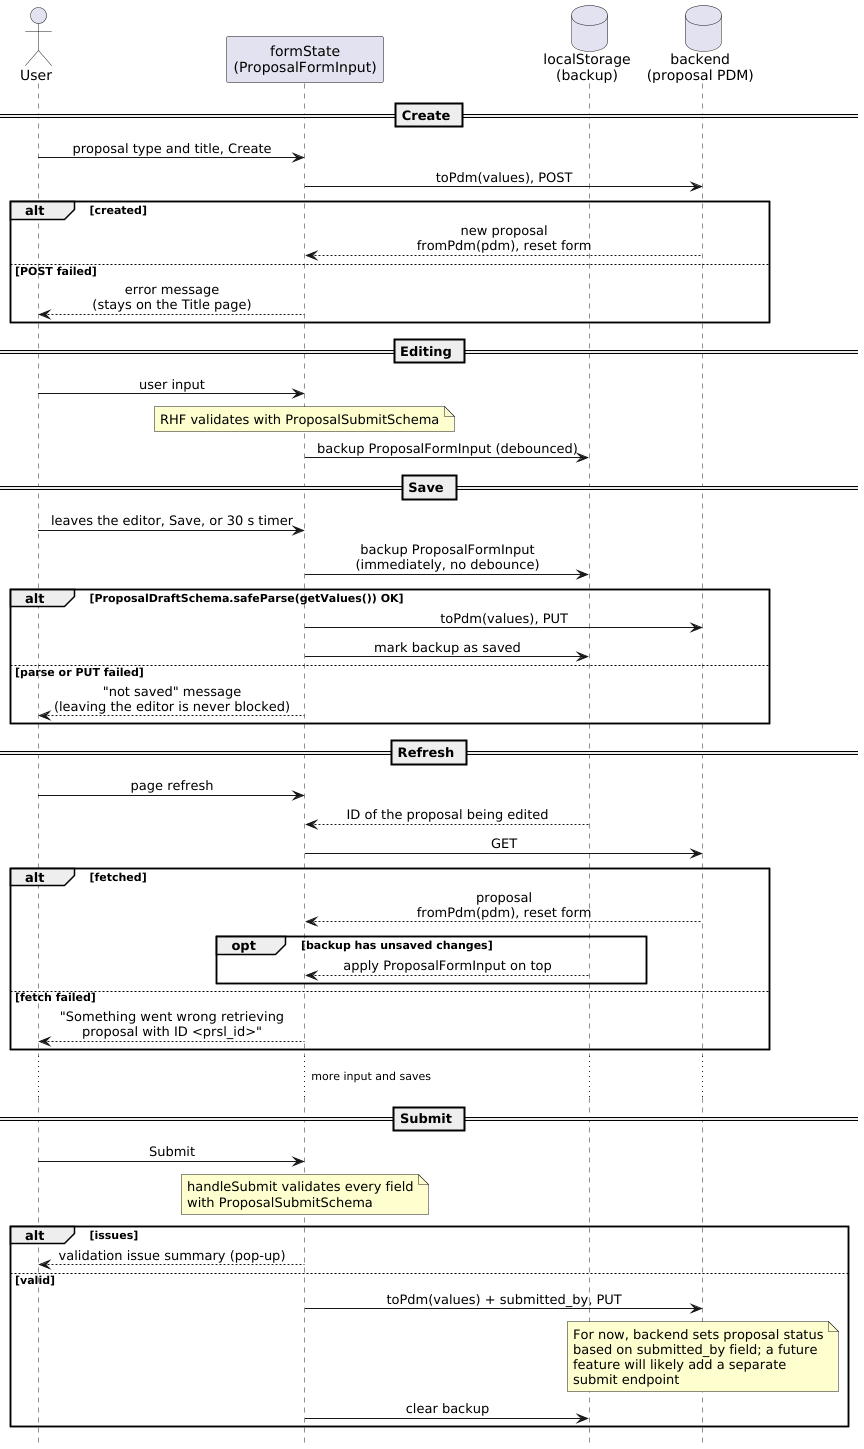
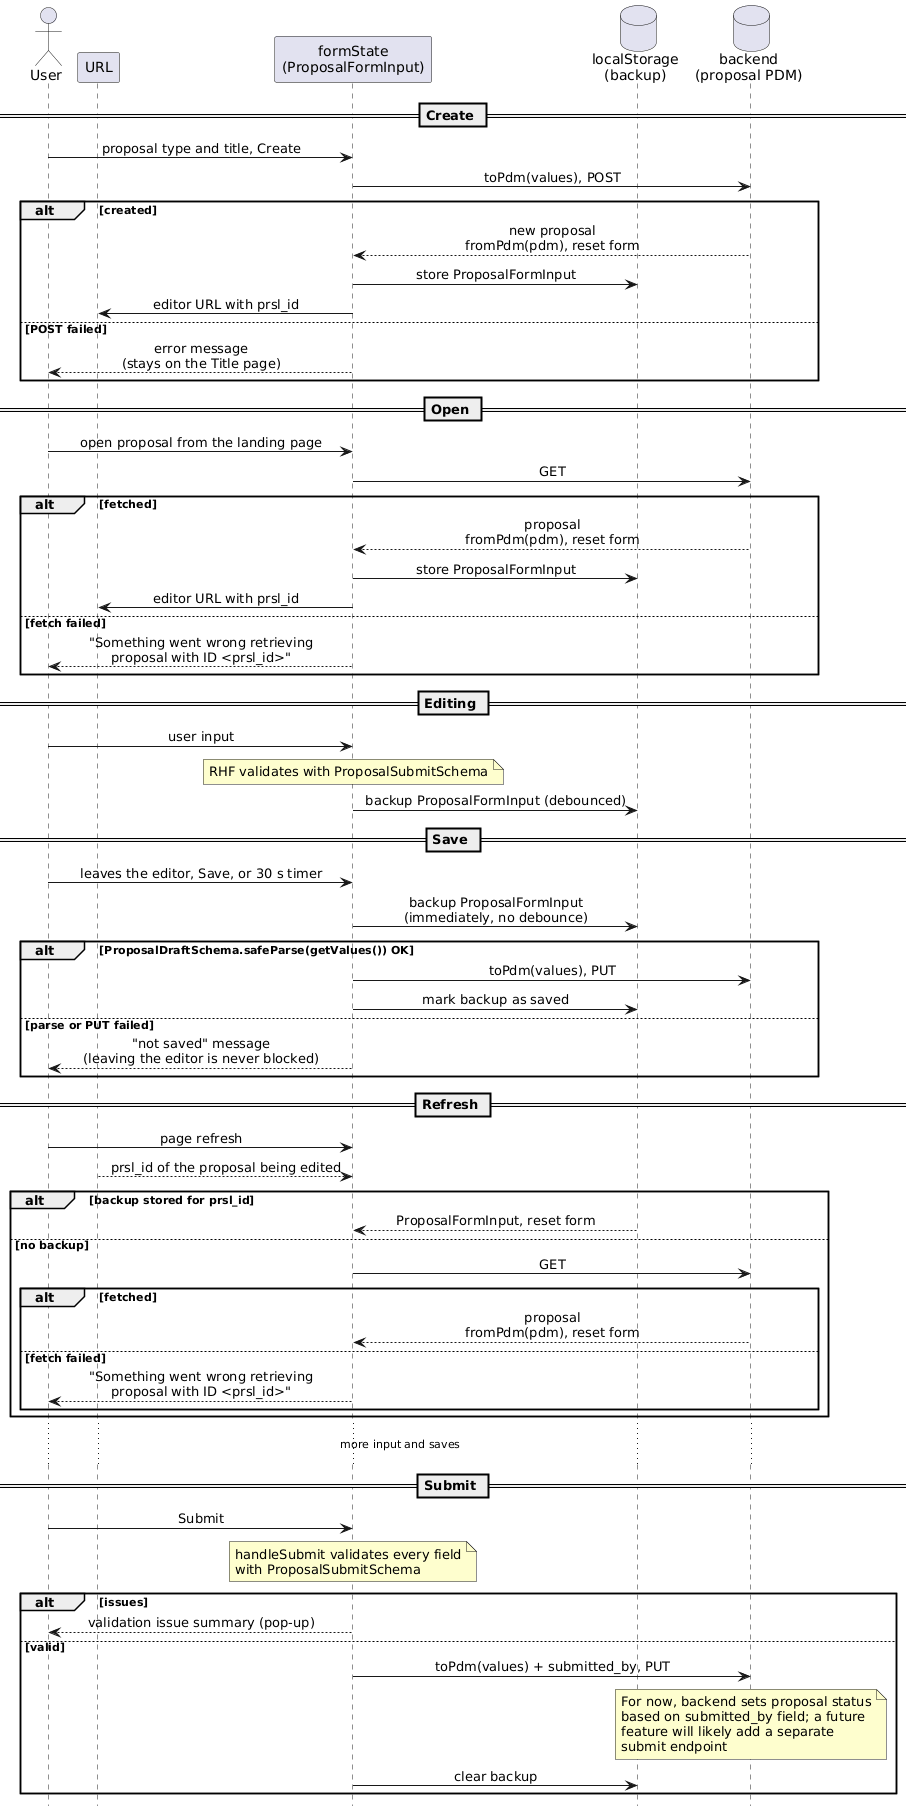
BTN-3598 tidy up diagram and comments

Changed region(s): [[0.0, 0.0, 1.0, 0.9938], [0.8125, 0.3106, 0.8438, 0.3416]]

diff --git a/src/pages/PHT/PHT.test.tsx b/src/pages/PHT/PHT.test.tsx
@@ -16,7 +16,6 @@ const mockNavigate = vi.fn();
 const mockSetHelp = vi.fn();
 const mockPathname = { current: PATH[0] };
 const mockLocationState: { current: unknown } = { current: null };
-// The form values of the proposal open when PHT mounts, over the defaults of a new proposal
 const mockOpenProposal: { current: Partial<ProposalType> } = { current: { prslId: 'prp-123' } };
 const mockApplicationContent5 = { current: { message: '', level: '', delay: 0 } as any };
 
@@ -126,7 +125,6 @@ const { mockProposal } = vi.hoisted(() => ({
   }
 }));
 
-// PHT's form, opened on mockOpenProposal as a load would leave it
 const realUseProposalForm = proposalForm.useProposalForm;
 let formSpy: ReturnType<typeof vi.spyOn>;
 beforeEach(() => {
@@ -268,7 +266,6 @@ describe('<PHT />', () => {
         PROPOSAL_STATUS.DRAFT
       );
     });
-    // Returning home closes the proposal, after its values were taken for the save
     expect(currentForm().getValues()).toEqual(proposalForm.getProposalFormDefaults());
   });
 
@@ -283,7 +280,6 @@ describe('<PHT />', () => {
     rerenderPHT();
 
     expect(saveValuesToOda).not.toHaveBeenCalled();
-    // The proposal is still closed
     expect(currentForm().getValues()).toEqual(proposalForm.getProposalFormDefaults());
   });
 

diff --git a/src/models/proposals/useProposalDraftStorage.ts b/src/models/proposals/useProposalDraftStorage.ts
@@ -28,7 +28,6 @@ export function useProposalDraftStorage(form: UseFormReturn<ProposalType>) {
 
     const unsubscribe = subscribe({
       formState: { values: true },
-      // Fires on edits and on resets, so a proposal is stored as soon as it is opened
       callback: ({ values }) => {
         // The open proposal has changed (opened, switched or closed): write the previous one's
         // pending edit now, under its own ID. The ID is taken from these values, not from state,
@@ -36,7 +35,6 @@ export function useProposalDraftStorage(form: UseFormReturn<ProposalType>) {
         if (pending && pending.prslId !== values.prslId) {
           flush();
         }
-        // With no prslId, no proposal is open
         if (!values.prslId) {
           return;
         }

diff --git a/src/components/grid/observationSummary/GridObservationSummary.tsx b/src/components/grid/observationSummary/GridObservationSummary.tsx
@@ -80,7 +80,6 @@ export default function GridObservationSummary({
     );
   };
 
-  // The integration time with its unit, or NOT_SPECIFIED while it's missing
   const integrationTime = ({ integrationTime }: ObservationInput) =>
     integrationTime.value === null
       ? NOT_SPECIFIED
@@ -129,7 +128,6 @@ export default function GridObservationSummary({
     renderHeader: () => headerDisplay('observingBand.label'),
     flex: 1,
     disableClickEventBubbling: true,
-    // An observation loaded with a band the form doesn't know has none, shown as an empty cell
     renderCell: (e: { row: ObservationInput }) =>
       e.row.observingBand ? (
         <ObservingBand telescope={TELESCOPE_NUMBER[e.row.telescope]} band={e.row.observingBand} />

diff --git a/src/components/layout/pageBannerPPT/PageBannerPPT.tsx b/src/components/layout/pageBannerPPT/PageBannerPPT.tsx
@@ -51,7 +51,6 @@ export default function PageBannerPPT({
   const { isSV } = useOSDAccessors();
   const validateProposal = useValidateProposal();
   const form = useFormContext<ProposalType>();
-  // The open proposal, for the Save/Submit checks and the dialogs
   const proposal = useWatch({ control: form.control }) as ProposalType;
   const LG = useMediaQuery(theme.breakpoints.down('lg'), {
     defaultMatches: false,
@@ -91,7 +90,6 @@ export default function PageBannerPPT({
     }
   };
 
-  // Checks each page of the form, then the proposal as the backend would validate it
   const validateTheProposal = async (): Promise<boolean> => {
     let result = false;
     setValidationResults([]);

diff --git a/src/models/proposals/useProposalOda.ts b/src/models/proposals/useProposalOda.ts
@@ -115,12 +115,10 @@ export function useProposalOda() {
 
   const saveToOda = React.useCallback(
     async (status: string = PROPOSAL_STATUS.DRAFT): Promise<ApiResult<ProposalPDM>> =>
-      // The proposal is saved from the form, so there is nothing to save without one
       form ? saveValuesToOda(form.getValues(), status) : { error: UNKNOWN_API_ERROR },
     [form]
   );
 
-  /** Creates a proposal from the given values, then puts the proposal as created in the form. */
   const createInOda = React.useCallback(
     async (values: ProposalType): Promise<ApiResult<ProposalType>> => {
       const { data: newPdm, error: mapError } = formToPdm(values, newProposalPdm);

diff --git a/src/pages/DataProduct/DataProductInPlace.test.tsx b/src/pages/DataProduct/DataProductInPlace.test.tsx
@@ -118,7 +118,6 @@ const link = (sensitivity?: Sensitivity) => ({
   sensitivity
 });
 
-// The observation the page shows, and the proposal the form is seeded with
 let openedObservation: ObservationInput;
 let openedProposal: Partial<ProposalType>;
 const openProposal = (proposal: {
@@ -131,7 +130,6 @@ const openProposal = (proposal: {
   openedProposal = { prslId: 'prsl-1', ...proposal } as Partial<ProposalType>;
 };
 
-// Exposes the global form, which holds the proposal
 let form: UseFormReturn<ProposalType>;
 const FormProbe = ({ onForm }: { onForm: (form: UseFormReturn<ProposalType>) => void }) => {
   onForm(useFormContext<ProposalType>());

diff --git a/src/pages/LandingPage/LandingPage.test.tsx b/src/pages/LandingPage/LandingPage.test.tsx
@@ -259,7 +259,6 @@ describe('clone proposal', () => {
     pi: true
   };
 
-  // The same original as the form holds it once loaded
   const originalValues = (): ProposalType => ({
     ...getProposalFormDefaults(),
     prslId: ORIGINAL_PROPOSAL_ID,
@@ -510,7 +509,6 @@ describe('clone proposal', () => {
 
     await triggerCloneConfirm();
     await waitFor(() => expect(mockCreateInOda).toHaveBeenCalledOnce());
-    // Opening the original for cloning loaded it once
     const loads = mockLoadFromOda.mock.calls.length;
 
     fireEvent.click(screen.getByTestId('editIcon'));

diff --git a/src/pages/entry/ObservationEntry/ObservationEntry.test.tsx b/src/pages/entry/ObservationEntry/ObservationEntry.test.tsx
@@ -67,7 +67,6 @@ const FormProbe = () => {
   return null;
 };
 
-// The proposal form holds the proposal, over a standard proposal with nothing in it
 const renderWithProposal = (
   component: React.ReactElement,
   proposal: Partial<ProposalType> = {}
@@ -105,7 +104,6 @@ const select = (label: string, option: RegExp | string) => {
 };
 const addButton = () => screen.getByTestId('addObservationButtonEntry');
 
-// A LOW AA2 continuum observation
 const lowObservation = (id: string) => ({
   ...newSvObservation(OBSERVING_MODE.CONTINUUM, 15),
   id

diff --git a/src/pages/entry/DataProduct/DataProduct.test.tsx b/src/pages/entry/DataProduct/DataProduct.test.tsx
@@ -66,7 +66,6 @@ const observation = (
   id
 });
 
-// The values the form is seeded with
 let openedProposal: Partial<ProposalType>;
 const openProposal = (proposal: {
   observations: ObservationInput[];
@@ -75,7 +74,6 @@ const openProposal = (proposal: {
   openedProposal = { prslId: 'prp-1', ...proposal };
 };
 
-// Exposes the global form, which holds the proposal
 let form: UseFormReturn<ProposalType>;
 const FormProbe = ({ onForm }: { onForm: (form: UseFormReturn<ProposalType>) => void }) => {
   onForm(useFormContext<ProposalType>());

diff --git a/src/pages/SciencePage/SciencePage.test.tsx b/src/pages/SciencePage/SciencePage.test.tsx
@@ -42,7 +42,6 @@ const mockStore = {
   helpComponentURL: vi.fn(),
   updateAppContent1: vi.fn()
 };
-// The proposal the form is seeded with
 let currentProposal: Partial<ProposalType> = mockProposal;
 vi.mock('@utils/storage/store', () => ({
   storageObject: {
@@ -139,7 +138,6 @@ vi.mock('@/utils/osd/useOSDAccessors/useOSDAccessors', () => ({
   })
 }));
 
-// The form of the last render
 let formMethods: UseFormReturn<ProposalType>;
 const wrapper = (component: React.ReactElement) => {
   const FormWrapper = () => {

diff --git a/src/components/alerts/sensCalcModal/content/SensCalcContent.test.tsx b/src/components/alerts/sensCalcModal/content/SensCalcContent.test.tsx
@@ -27,10 +27,8 @@ const values = (weighted: number): SensitivityValues => ({
   synthesizedBeamSize: { value: '1.00 x 2.00', unit: 'arcsec²' }
 });
 
-// The linked observation and data product come from the mock proposal
 const { observations, dataProducts } = mapPdmToForm(MockProposalBackend);
 
-// The linked target, observation and data product live in the form, which owns them
 const FormWithTarget = ({ children }: { children: React.ReactNode }) => (
   <TestProposalFormProvider
     values={{

diff --git a/src/pages/TargetPage/TargetPage.tsx b/src/pages/TargetPage/TargetPage.tsx
@@ -36,7 +36,6 @@ export default function TargetPage() {
   const getProposalState = () => application.content1 as number[];
   const validateProposal = useValidateProposal();
   const form = useFormContext<ProposalType>();
-  // The slices whose page statuses this page updates
   const [targets, targetObservation, observations, dataProducts, calibrationStrategy] = useWatch({
     control: form.control,
     name: ['targets', 'targetObservation', 'observations', 'dataProducts', 'calibrationStrategy']
